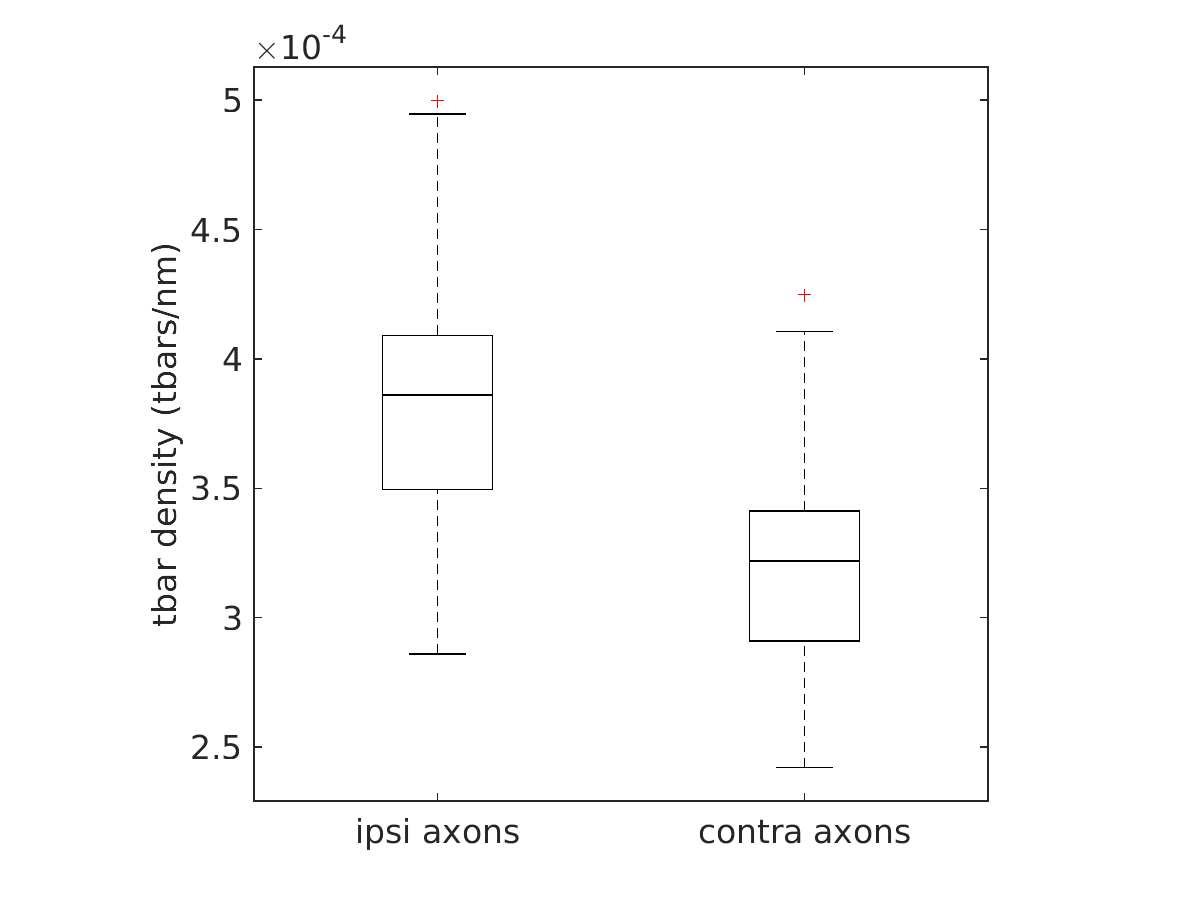
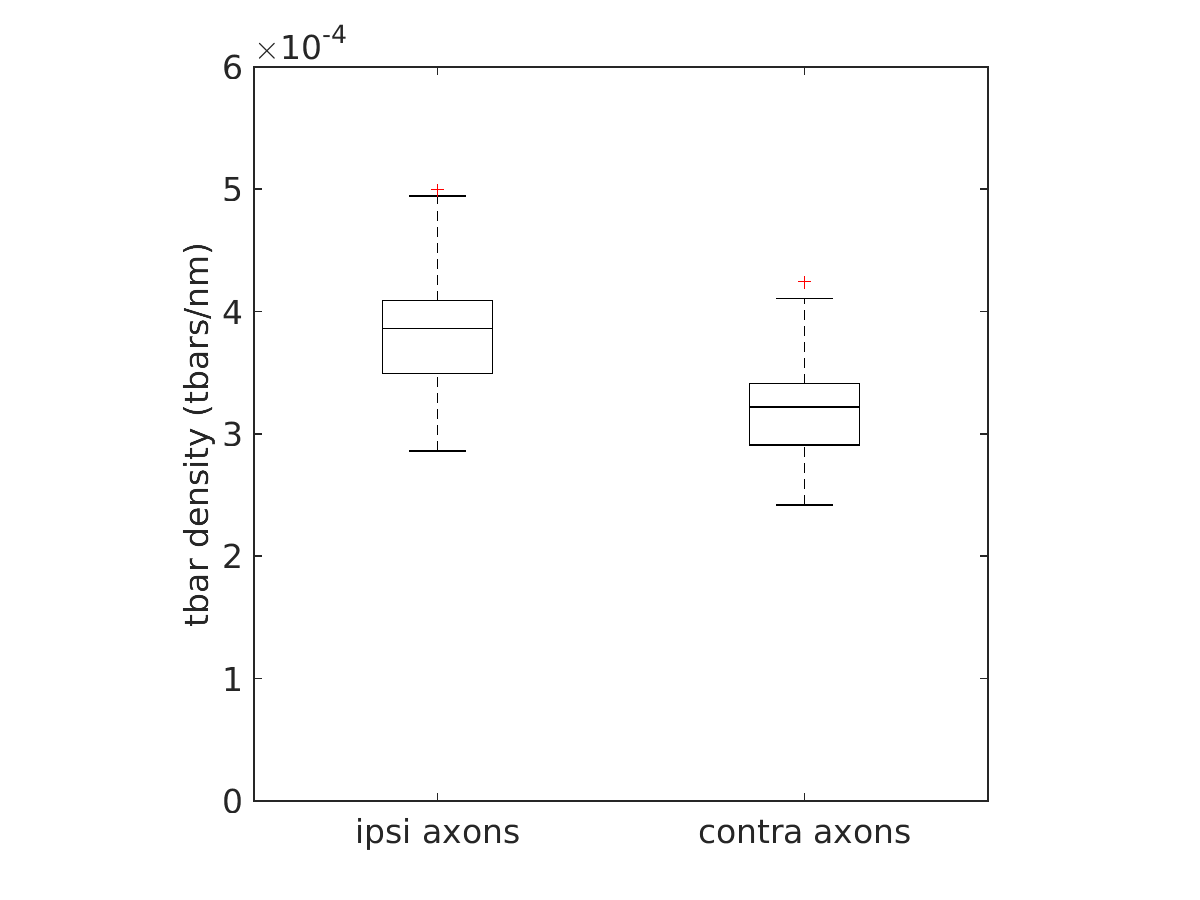
more supplamental work

diff --git a/currentWfly1ManuscriptFigures/Supplamentals/ipsiContraLengthsDens/ipsiContraLenghtsDens.m b/currentWfly1ManuscriptFigures/Supplamentals/ipsiContraLengthsDens/ipsiContraLenghtsDens.m
@@ -88,6 +88,8 @@ ax.XTickLabel={'ipsi axons','contra axons'};
 ax.FontSize=16;
 ylabel('cable length(nm)','FontSize',16);
 axis square
+ylim([0 2*10^5])
+ax.YTick=[0:1*10^5:2*10^5]
 saveas(gcf,'ipsiContraLength')
 saveas(gcf,'ipsiContraLength','png')
 
@@ -100,5 +102,8 @@ ax.XTickLabel={'ipsi axons','contra axons'};
 ylabel('tbar density (tbars/nm)', 'FontSize',16);
 axis square
 ax.FontSize=16;
+ylim([0 6*10^-4])
+
+
 saveas(gcf,'ipsiContraDens')
 saveas(gcf,'ipsiContraDens','png')
